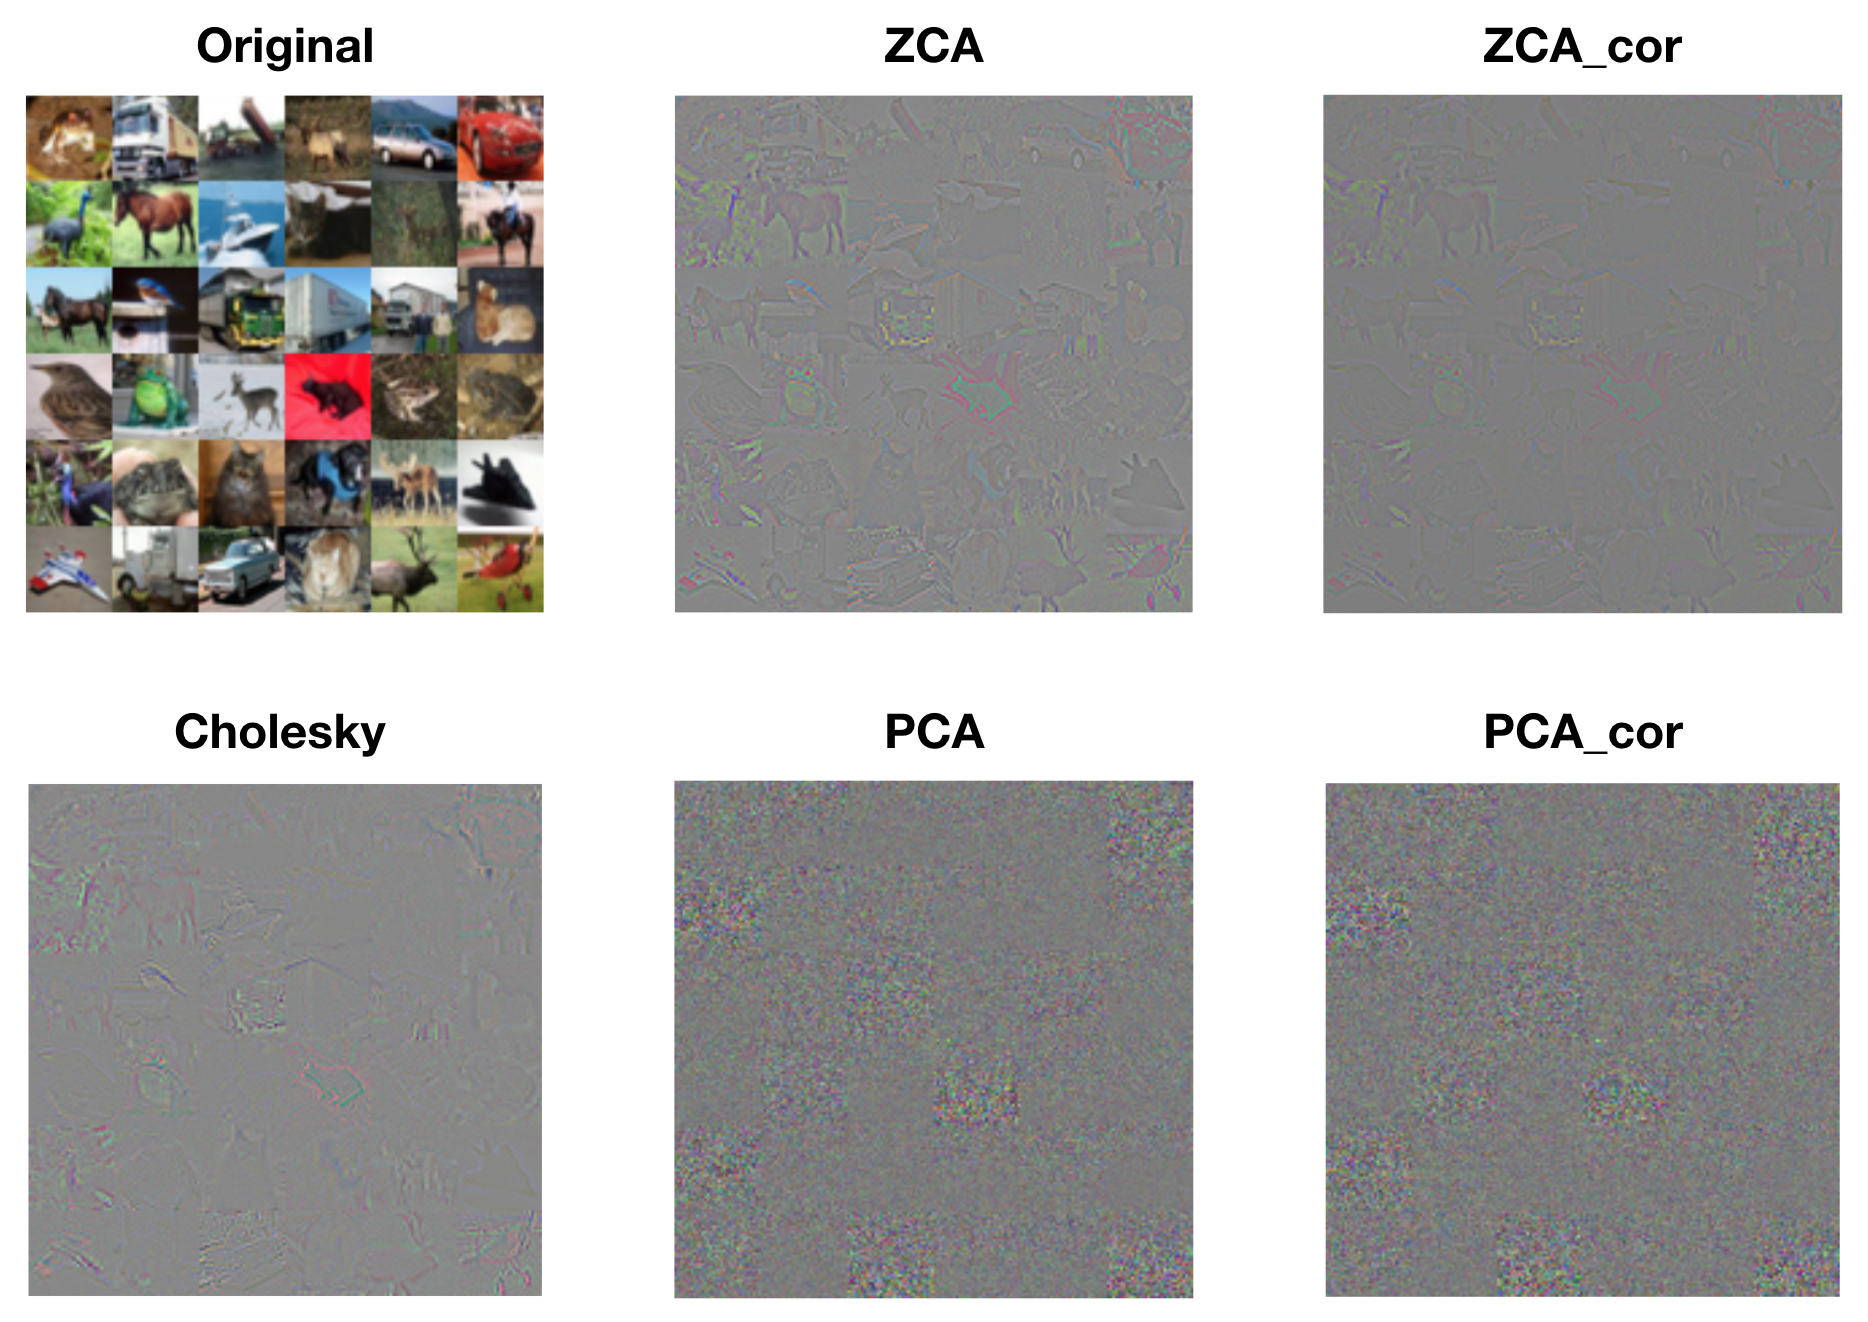
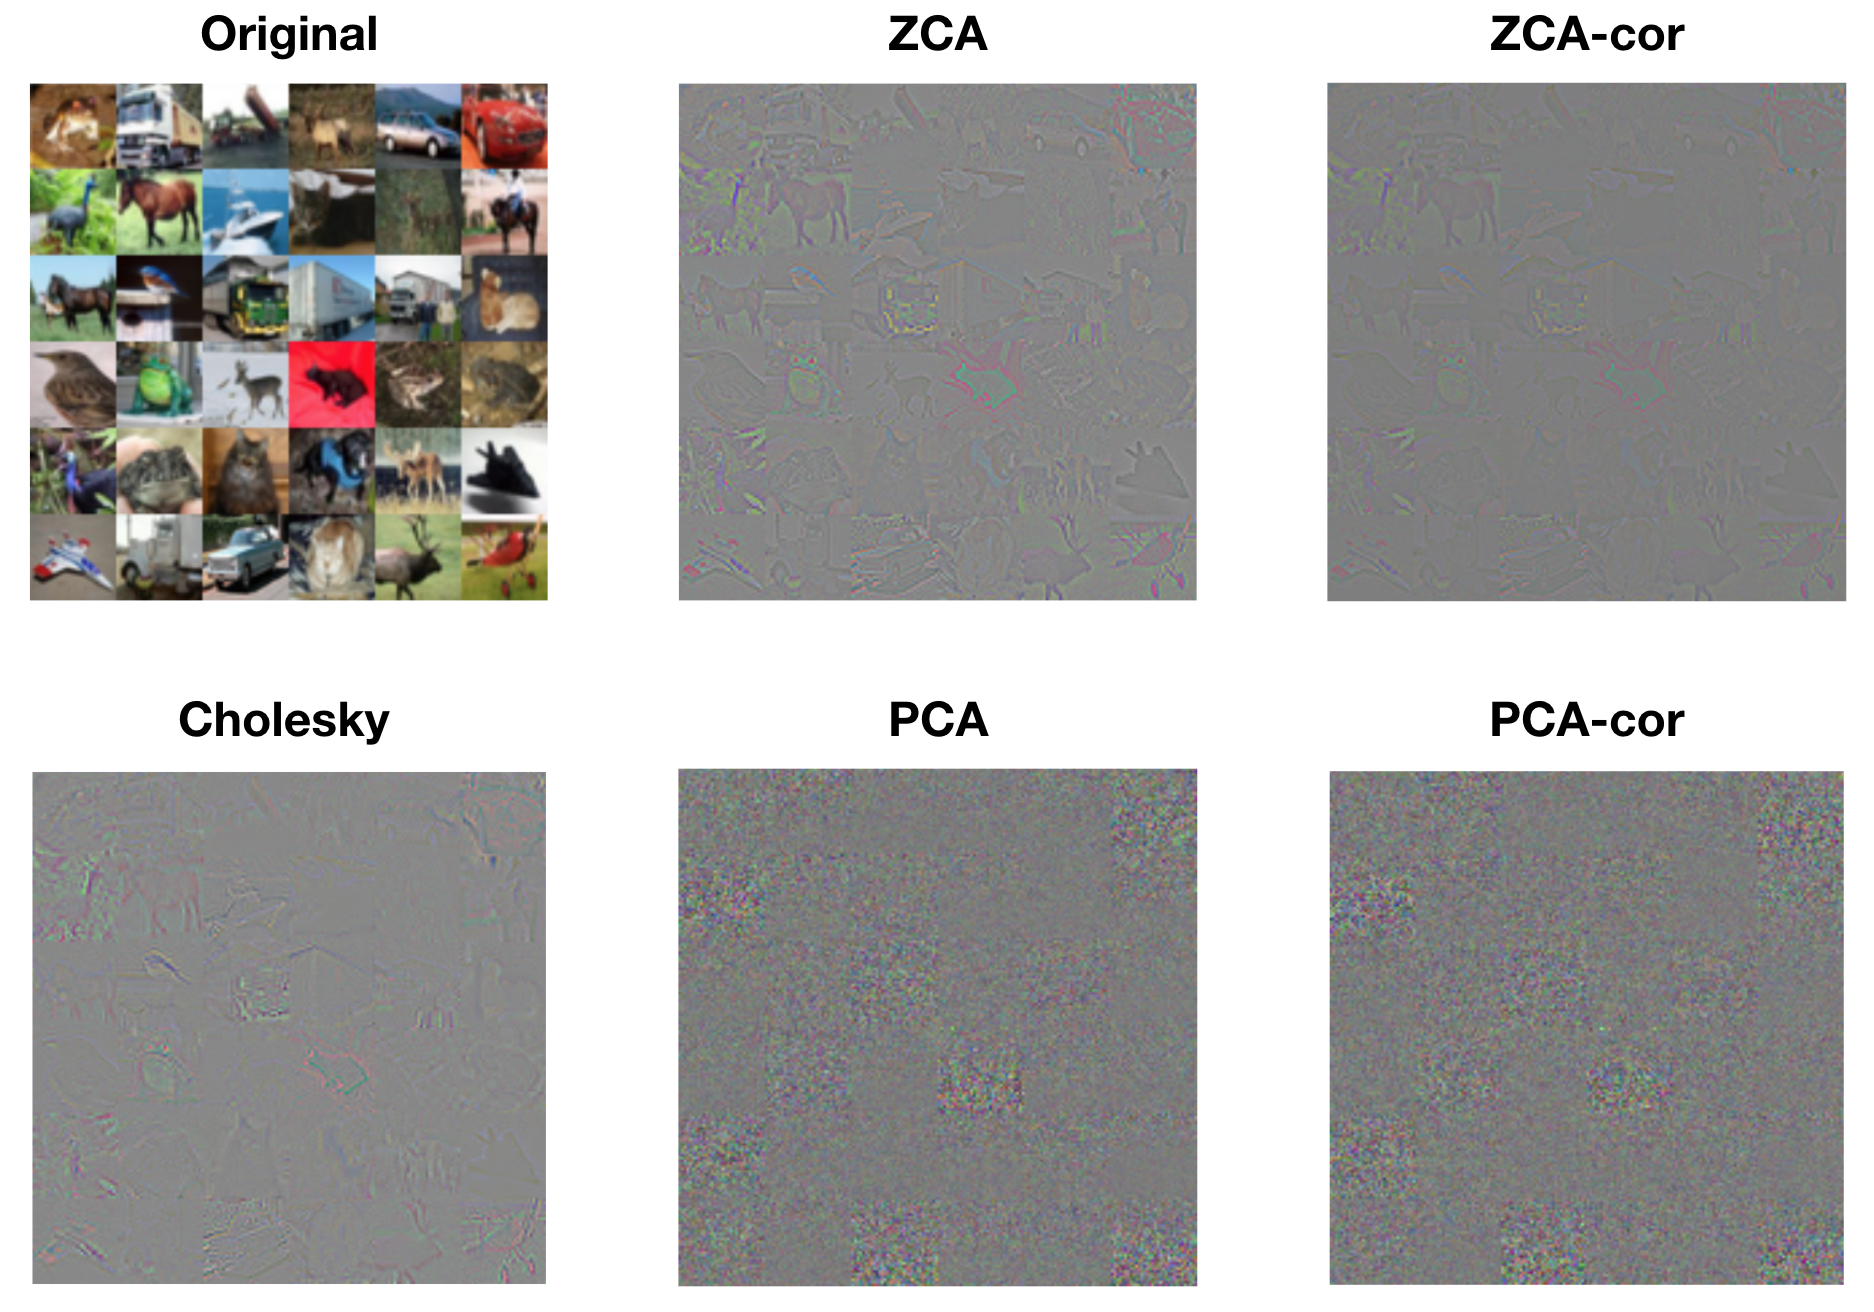
minor changes

diff --git a/blog_posts/blog_whitening.html b/blog_posts/blog_whitening.html
@@ -33,7 +33,7 @@
 <script src="js/html5shiv.js"></script>
 <link rel="stylesheet" media="screen" href="css/ie.css">
 <![endif]-->
-<!--[if lt IE 10]>
+<!--[if lt IE 10]>_
 <link rel="stylesheet" media="screen" href="css/ie1.css">
 <![endif]-->
 
@@ -323,19 +323,19 @@
                         <center><img src="../images/blog_images/blog_whitening/bases_comparison.png" alt="" /></center>
                         
                         <p>
-                        Look closely at the ZCA, ZCA_cor, and Cholesky images and you'll notice small patches of light. These are localized <i>center-surround patches</i>, which encode large changes between neighboring pixels. The following figure shows a close-up of one such patch from ZCA.
+                        Look closely at the ZCA, ZCA-cor, and Cholesky images and you'll notice small patches of light. These are localized <i>center-surround patches</i>, which encode large changes between neighboring pixels. The following figure shows a close-up of one such patch from ZCA.
                         </p>
                         
                         <center><img src="../images/blog_images/blog_whitening/zca_basis.png" alt="" /></center>
                         
                         <p>
-                        The PCA and PCA_cor basis filters, on the other hand, are encoding progressively higher <i>spatial frequencies and color patterns</i>. This is consistent with Kessy et al.'s interpretation of PCA and PCA_cor as maximally compressing the input: first capture the large spatial components, then capture finer and finer details. The following figure shows an example PCA basis vector, which is encoding high spatial and color frequencies.
+                        The PCA and PCA-cor basis filters, on the other hand, are encoding progressively higher <i>spatial frequencies and color patterns</i>. This is consistent with Kessy et al.'s interpretation of PCA and PCA-cor as maximally compressing the input: first capture the large spatial components, then capture finer and finer details. The following figure shows an example PCA basis vector, which is encoding high spatial and color frequencies.
                         </p>
                         
                         <center><img src="../images/blog_images/blog_whitening/pca_basis_example.png" alt="" /></center>
                         
                         <p>
-                        We can also gain a better understanding of each procedure by visualizing whitened images. The following figure displays the first 36 images from the training set, along with their whitened versions from each procedure. The whitened images from ZCA, ZCA_cor, and Cholesky whitening all resemble the original images in form, but the edges are exaggerated. This is to be expected, since the basis filters from these procedures are encoding large changes in color and intensity. The whitened images from PCA and PCA_cor do not visually resemble the original images. Rather, each pixel within these whitened images represents the degree to which the corresponding principle component (spatial frequency, color, etc.) is present. That is, PCA and PCA_cor do not produce whitened images that are in the image basis; they are in the eigenbasis.
+                        We can also gain a better understanding of each procedure by visualizing whitened images. The following figure displays the first 36 images from the training set, along with their whitened versions from each procedure. The whitened images from ZCA, ZCA-cor, and Cholesky whitening all resemble the original images in form, but the edges are exaggerated. This is to be expected, since the basis filters from these procedures are encoding large changes in color and intensity. The whitened images from PCA and PCA-cor do not visually resemble the original images. Rather, each pixel within these whitened images represents the degree to which the corresponding principle component (spatial frequency, color, etc.) is present. That is, PCA and PCA-cor do not produce whitened images that are in the image basis; they are in the eigenbasis.
                         </p>
                         
                         <center><img src="../images/blog_images/blog_whitening/compare_whitened_images.png" alt="" /></center>
